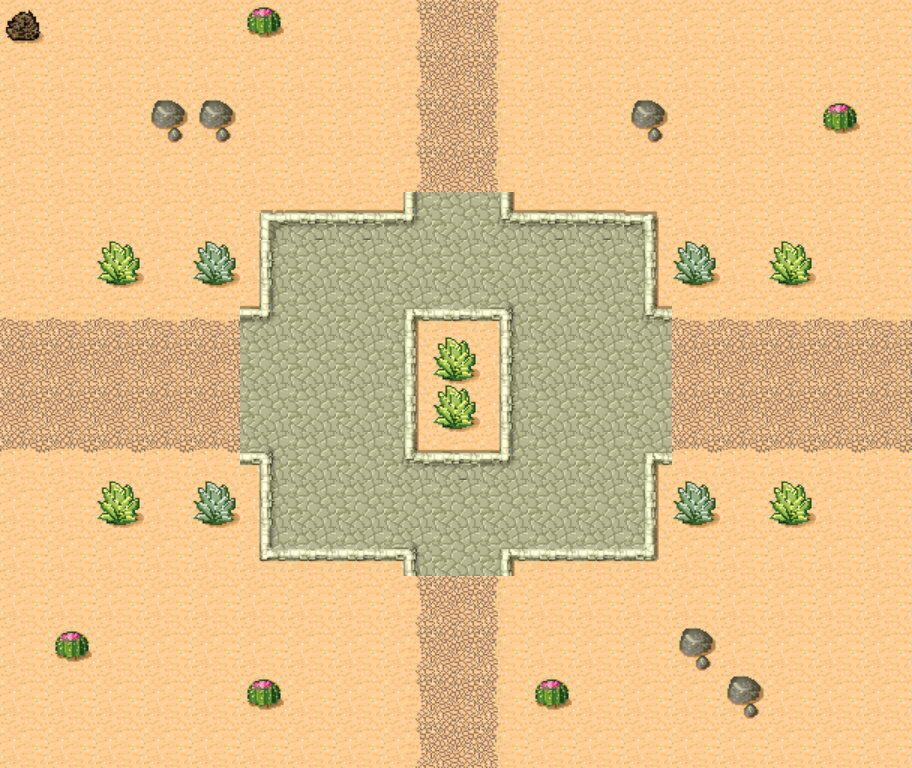
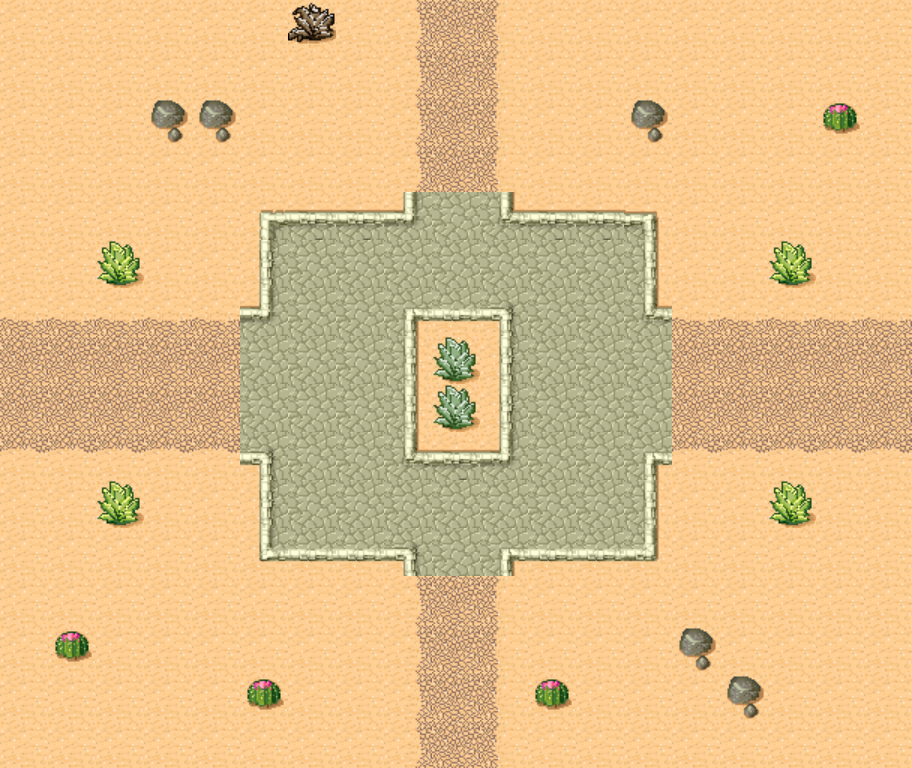
incorparte new map size

diff --git a/client/components/game.js b/client/components/game.js
@@ -99,21 +99,12 @@ function preload () {
 }
 
 function create () {
-  // console.log('create ran')
-  // if (restart) {
-  //   preload()
-  //   this.registry.destroy()
-  //   this.events.off()
-  //   this.scene.restart()
-  // }
   champName = document.getElementById('champName')
   champUnit = document.getElementById('champUnit')
   champAttack = document.getElementById('champAttack')
   champHealth = document.getElementById('champHealth')
   champAction = document.getElementById('champAction')
   info = document.getElementById('infoWindow')
-  // winReport = document.getElementById('win')
-
   champName.innerText = team1
 
   scene = this
@@ -139,13 +130,10 @@ function create () {
       }
     })
   })
-  // cursor.setPosition(actors[0].units[0].x, actors[0].units[0].y)
-  cursor.setPosition(0, 0)
+  cursor.setPosition(actors[0].units[0].x, actors[0].units[0].y)
+  // cursor.setPosition(0, 0)
   setIndex(cursor)
   // console.log(actors)
-  if (restart) {
-    console.log(actors)
-  }
 }
 
 function update () {
@@ -175,9 +163,9 @@ function findDest (idx, val, axis) {
   }
   if (axis === 'y') {
     if (val === 48) {
-      dest = idx + 15
+      dest = idx + 19
     } else {
-      dest = idx - 15
+      dest = idx - 19
     }
   }
   // console.log('dest is:', dest)
@@ -233,7 +221,6 @@ function attack (dest) {
 }
 
 function endGame () {
-  winner = true
   document.getElementById('battleInfo').innerText = JSON.stringify(actors)
   info.innerText = `Game over, winner is ${activeTeam}`
   let winBox = document.getElementById('winBox')
@@ -254,6 +241,8 @@ function checkGameOver () {
     }
   })
   if (gameOver) {
+    cursor.destroy()
+    winner = true
     setTimeout(endGame, 2400)
     scene.cameras.main.fade(2500, 76, 17, 30)
   // scene.sys.game.destroy(true)
@@ -384,10 +373,10 @@ function setIndex (target) {
 
 function checkTile () {
   let idx = cursor.getData('idx')
-  let derCoords = getCoordsFromIndex(idx)
+  // let derCoords = getCoordsFromIndex(idx)
   // console.log('cursor coords are', cursor.x, cursor.y)
-  console.log('idx =', idx)
-  console.log('derCoords:', derCoords)
+  // console.log('idx =', idx)
+  // console.log('derCoords:', derCoords)
   // console.log('index of derCoords:', getIndexFromCoords(derCoords))
   // console.log(' ')
   let tile = map[idx]
@@ -456,7 +445,7 @@ function findNeighbours (idx) {
       let newX = (attackerCoords[0] + itX)
       let newY = (attackerCoords[1] + itY)
       let neighbourIdx = getIndexFromCoords([newX, newY])
-      if (newX >= 0 && newX <= 864 && newY >= 0 && newY < 864) { neighbours.push(neighbourIdx) }
+      if (newX >= 0 && newX <= 864 && newY >= 0 && newY < 720) { neighbours.push(neighbourIdx) }
     }
   }
   return neighbours

diff --git a/client/components/mapfunctions.js b/client/components/mapfunctions.js
@@ -1,4 +1,4 @@
-import mapData from '../../server/public/assets/maps/map.json'
+import mapData from '../../server/public/assets/maps/finalmap.json'
 import request from 'superagent'
 
 var names = ['Ulfrick', 'Gauward', 'Roland', 'Nieles', 'Harlaw', 'Albrecht', 'Giliam', 'Aethelwulf', 'Brand', 'Bjorn', 'Helmaer', 'Aenfin', 'Lambert', 'Ardulf', 'Lany', 'Elwic', 'Ebehrt', 'Edric', 'Piersym', 'Georguy', 'Peregrine', 'Grewill']
@@ -79,7 +79,8 @@ export function createMapArray () {
     if (tile === 10) {
       return {
         occupied: true,
-        occupant: 'obstacle'
+        occupant: 'obstacle',
+        occupantTeam: null
       }
     } else {
       return {
@@ -106,7 +107,7 @@ export function addActorsToMapArr (actors, mapArr) {
 
 export function createActors (team1, team2) {
   var actorArr = actors
-  let idx = 32
+  let idx = 19
   // let team1 = actorArr[0].name
   // let team2 = actorArr[1].name
   actorArr[0].name = team1
@@ -122,7 +123,7 @@ export function createActors (team1, team2) {
     unit.teamName = team1
     unit.sprite = 'r' + unit.sprite
     unit.name = `${ranName} the ${unit.name}`
-    idx = idx + 32
+    idx = idx + 38
     unit.idx = idx
     unit.dead = false
     unit.kills = []
